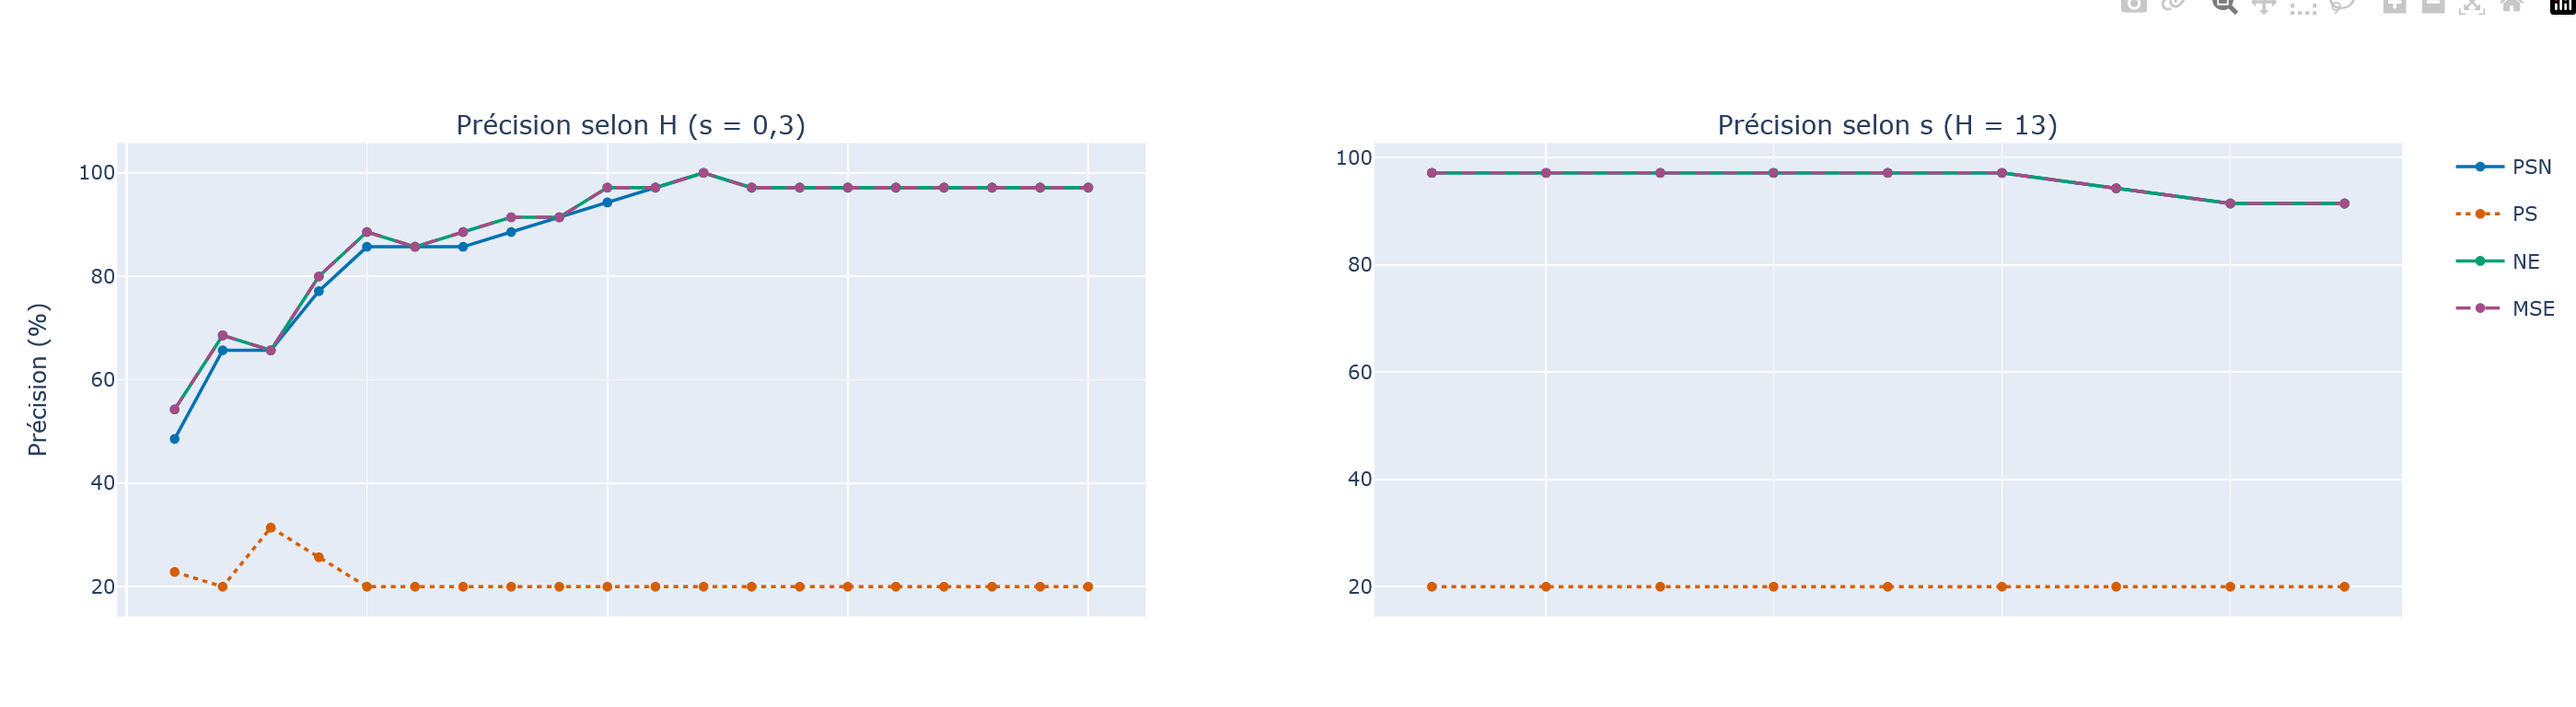
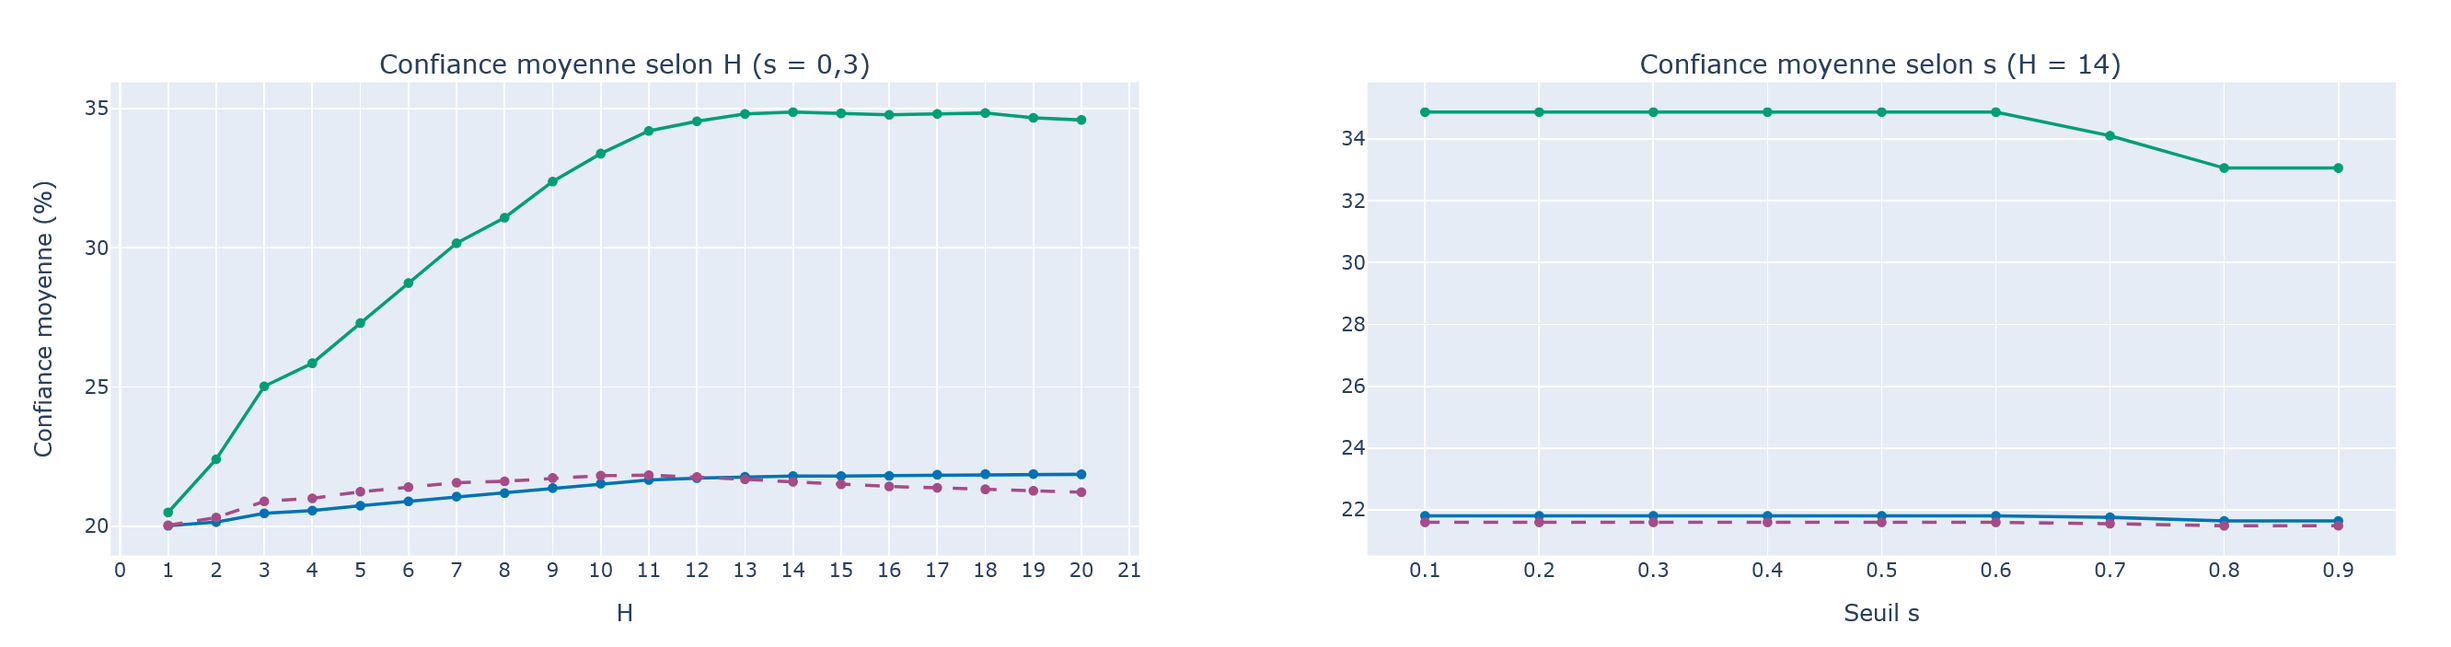
fix

diff --git a/test_parameters.py b/test_parameters.py
@@ -44,7 +44,7 @@ def mesurer(h, s):
 valeurs_h = list(range(1, 21))
 valeurs_s = [i / 10 for i in range(1, 10)]
 resultats_h = [mesurer(h, 0.3) for h in valeurs_h]
-resultats_s = [mesurer(13, s) for s in valeurs_s]
+resultats_s = [mesurer(14, s) for s in valeurs_s]
 
 fig = make_subplots(
     rows=2,
@@ -52,9 +52,9 @@ fig = make_subplots(
     shared_xaxes=True,
     subplot_titles=(
         "Précision selon H (s = 0,3)",
-        "Précision selon s (H = 13)",
+        "Précision selon s (H = 14)",
         "Confiance moyenne selon H (s = 0,3)",
-        "Confiance moyenne selon s (H = 13)",
+        "Confiance moyenne selon s (H = 14)",
     ),
 )
 
